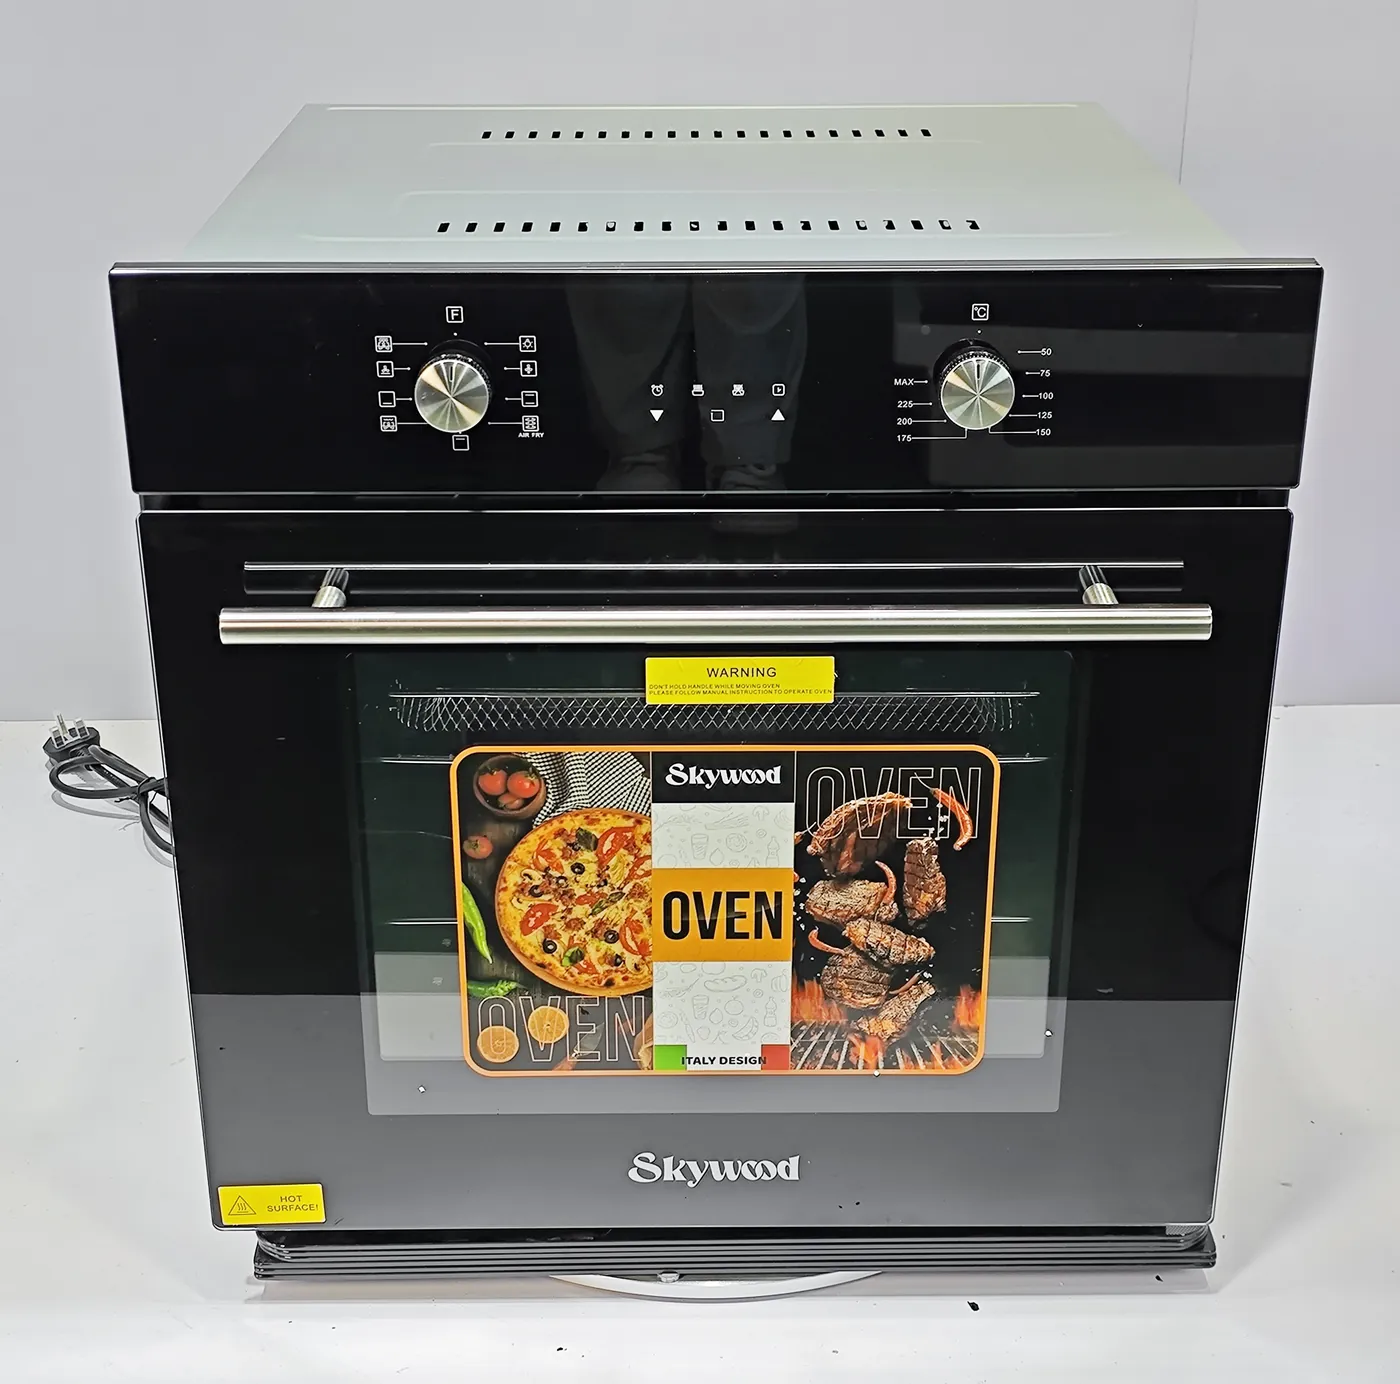
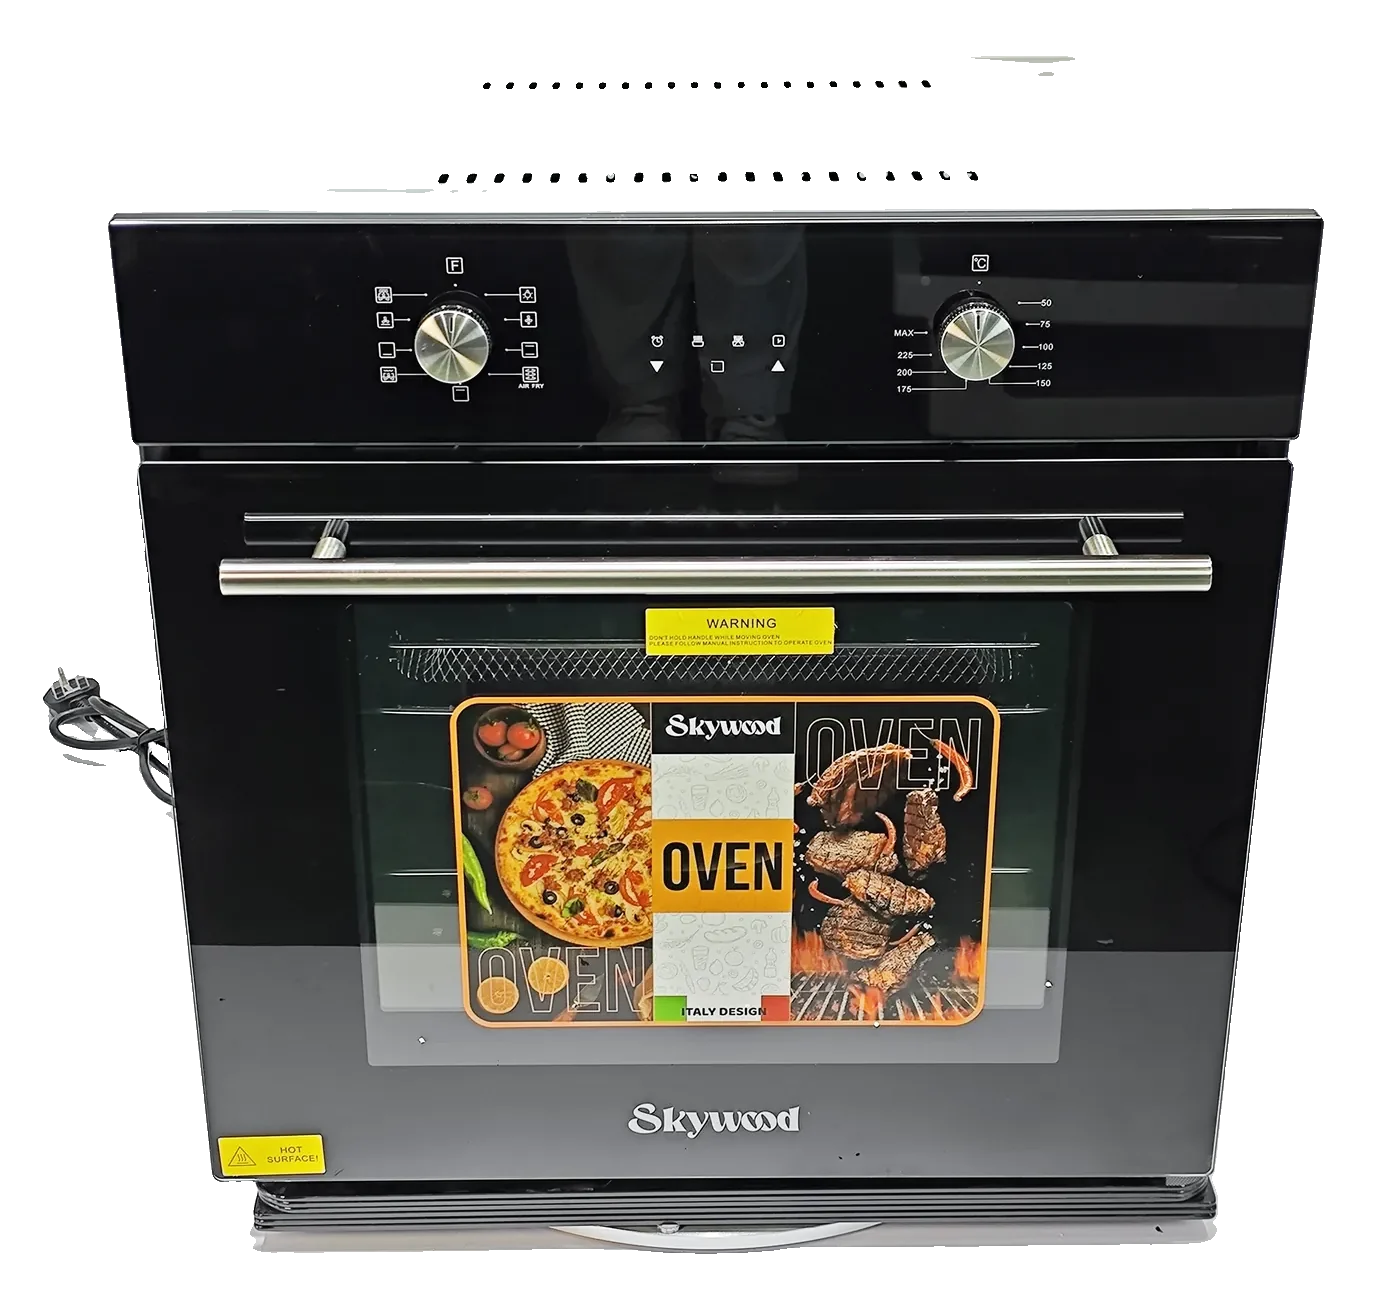
feat(store): leadership on the About page, awards on both brands, cleaner product cut-outs
- About > Leadership (name, position, bio, photo), editable in Admin > CMS, indexed as schema.org Person
- group awards shown on Skywood too; Chairperson Profile Beda Masawe listed for Mr UK
- deploy sync keeps unedited About blocks on the current defaults (staff edits are never overwritten)
- background removed from 7 main product photos (Skywood built-in ovens, Mr UK twin tub and yellow pump)

Claude-Session: https://claude.ai/code/session_012qpXoaTokW2qDuPUEDLrVa

diff --git a/apps/web/src/app/[brand]/about/page.tsx b/apps/web/src/app/[brand]/about/page.tsx
@@ -2,11 +2,12 @@ import type { Metadata } from 'next';
 import Link from 'next/link';
 import { JsonLd } from '@/components/seo/JsonLd';
 import { AwardArt } from '@/components/store/Awards';
+import { initials } from '@/lib/format';
 import type { BrandKey } from '@/lib/types';
 import { publicUrl } from '@/lib/site';
 import { getBrand, getCms, getSuppliers } from '@/server/catalog';
 import { getT } from '@/server/locale';
-import { brandTitle, breadcrumbLd, graph, organizationLd, pageMeta } from '@/server/seo';
+import { brandTitle, breadcrumbLd, graph, leadersLd, organizationLd, pageMeta } from '@/server/seo';
 
 export async function generateMetadata({ params }: { params: Promise<{ brand: string }> }): Promise<Metadata> {
   const { brand: key } = (await params) as { brand: BrandKey };
@@ -24,7 +25,7 @@ export default async function AboutPage({ params }: { params: Promise<{ brand: s
   const paragraphs = a.story.split(/\n\s*\n/).map((p) => p.trim()).filter(Boolean);
   return (
     <div className="wrap page-top about">
-      <JsonLd data={graph(organizationLd(brand, cms), { '@type': 'AboutPage', url: publicUrl(key, '/about'), name: `About ${brand.name}`, description: a.intro || undefined }, breadcrumbLd(brand, [{ name: t('aboutUs'), path: '/about' }]))} />
+      <JsonLd data={graph(organizationLd(brand, cms), { '@type': 'AboutPage', url: publicUrl(key, '/about'), name: `About ${brand.name}`, description: a.intro || undefined }, breadcrumbLd(brand, [{ name: t('aboutUs'), path: '/about' }]), ...leadersLd(brand, a.leaders))} />
       <header className="about-head">
         <p className="about-kicker">{t('aboutUs')}</p>
         <h1>{a.headline || brand.name}</h1>
@@ -61,6 +62,27 @@ export default async function AboutPage({ params }: { params: Promise<{ brand: s
               <li key={x.title}>
                 <h3>{x.title}</h3>
                 {x.text && <p>{x.text}</p>}
+              </li>
+            ))}
+          </ul>
+        </section>
+      )}
+
+      {a.leaders.length > 0 && (
+        <section className="about-sec" id="leadership" aria-labelledby="about-leadership">
+          <h2 id="about-leadership">{t('aboutLeadership')}</h2>
+          <ul className="about-leaders">
+            {a.leaders.map((l) => (
+              <li key={l.name} data-testid="leader">
+                <span className="about-leader-art" aria-hidden={l.img ? undefined : true}>
+                  {/* eslint-disable-next-line @next/next/no-img-element */}
+                  {l.img ? <img src={l.img} alt={`${l.name}, ${l.role}`} loading="lazy" decoding="async" /> : initials(l.name)}
+                </span>
+                <div>
+                  <h3>{l.name}</h3>
+                  {l.role && <p className="about-leader-role">{l.role}</p>}
+                  {l.bio && <p className="about-leader-bio">{l.bio}</p>}
+                </div>
               </li>
             ))}
           </ul>

diff --git a/handoff/design/brand-data.js b/handoff/design/brand-data.js
@@ -343,6 +343,7 @@
           { label: 'Head office', value: 'Kariakoo, Dar es Salaam' },
           { label: 'Branches', value: 'Arusha, Dodoma, Mwanza, Kilimanjaro' },
           { label: 'Reach', value: 'Eastern and Central Africa' },
+          { label: 'Quality', value: 'ISO 9001:2015 certified' },
         ],
         activities: [
           { title: 'Home appliances', text: 'Fridges, freezers, cookers, washing machines and small kitchen appliances for everyday family use.' },
@@ -354,8 +355,10 @@
         awards: [
           { title: 'Home Appliance Supplier of the Year', org: 'Africa Company of the Year Awards', year: '2026', recipient: 'MR UK Corporation', img: '/img/awards/africa-company-of-the-year-2026.webp' },
           { title: 'Outstanding Home Appliance Brand of the Year', org: 'East Africa Building and Construction (EABC) Awards', year: '2025', recipient: 'Mr UK Tanzania Limited', img: '/img/awards/eabc-awards-2025.webp' },
-          { title: 'CEO/MD of the Year', org: 'The Top 100 Awards', year: '2025', recipient: 'Beda Masawe, MR UK Corporation', img: '/img/awards/top-100-awards-2025.webp' },
+          { title: 'CEO/MD of the Year', org: 'The Top 100 Awards', year: '2025', recipient: 'Profile Beda Masawe, MR UK Corporation', img: '/img/awards/top-100-awards-2025.webp' },
         ],
+        // Photo and biography to come from the client (Admin › CMS › About › Leadership).
+        leaders: [{ name: 'Profile Beda Masawe', role: 'Chairperson, MR UK Corporation', bio: 'Named CEO/MD of the Year at The Top 100 Awards 2025.', img: '' }],
       },
       announcement: 'Take it home today, pay from your salary with Azania Bank Salary Advance',
       hero: [
@@ -381,7 +384,13 @@
         story: '',
         facts: [],
         activities: [],
-        awards: [],
+        // The client confirmed the group's awards are shown on both brands.
+        awards: [
+          { title: 'Home Appliance Supplier of the Year', org: 'Africa Company of the Year Awards', year: '2026', recipient: 'MR UK Corporation', img: '/img/awards/africa-company-of-the-year-2026.webp' },
+          { title: 'Outstanding Home Appliance Brand of the Year', org: 'East Africa Building and Construction (EABC) Awards', year: '2025', recipient: 'Mr UK Tanzania Limited', img: '/img/awards/eabc-awards-2025.webp' },
+          { title: 'CEO/MD of the Year', org: 'The Top 100 Awards', year: '2025', recipient: 'Profile Beda Masawe, MR UK Corporation', img: '/img/awards/top-100-awards-2025.webp' },
+        ],
+        leaders: [],
       },
       announcement: 'Beyond limits: pay monthly with Azania Bank Salary Advance',
       hero: [

diff --git a/apps/web/src/app/admin/(console)/cms/page.tsx b/apps/web/src/app/admin/(console)/cms/page.tsx
@@ -318,6 +318,36 @@ export default async function CmsPage({ searchParams }: { searchParams: Promise<
                 ))}
 
                 <h3 className="ad-h" style={{ fontSize: 13.5, marginTop: 18 }}>
+                  Leadership
+                </h3>
+                <p className="ad-sub">Chairperson, directors and managers shown on the About page. A photo is optional (square works best).</p>
+                <input type="hidden" name="ld_count" value={Math.min(about.leaders.length + 1, 12)} />
+                {[...about.leaders, { name: '', role: '', bio: '', img: '' }].slice(0, 12).map((x, i) => (
+                  <div key={`${aboutVersion}:${i}`} className="ad-form" style={{ marginTop: 10, paddingTop: 10, borderTop: '1px solid #F0F1F5' }}>
+                    <label className="ad-field">
+                      {i === about.leaders.length ? 'New leader name' : 'Name'}
+                      <input name={`ld_name_${i}`} defaultValue={x.name} maxLength={80} />
+                    </label>
+                    <label className="ad-field">
+                      Position
+                      <input name={`ld_role_${i}`} defaultValue={x.role} maxLength={80} />
+                    </label>
+                    <label className="ad-field full">
+                      Short biography
+                      <textarea name={`ld_bio_${i}`} defaultValue={x.bio} maxLength={500} rows={2} />
+                    </label>
+                    <div className="ad-field full">
+                      <ImagePick name={`ld_file_${i}`} current={x.img} text={x.img ? 'Replace photo' : 'Add photo'} alt={x.name} />
+                    </div>
+                    {i < about.leaders.length && (
+                      <label className="ad-check full" style={{ gridColumn: '1 / -1', fontSize: 12.5 }}>
+                        <input type="checkbox" name={`ld_remove_${i}`} /> Remove this person
+                      </label>
+                    )}
+                  </div>
+                ))}
+
+                <h3 className="ad-h" style={{ fontSize: 13.5, marginTop: 18 }}>
                   Awards and trophies
                 </h3>
                 <p className="ad-sub">Add a trophy photo on a plain or transparent background (JPG, PNG or WebP, up to 5 MB).</p>

diff --git a/packages/db/src/seed.ts b/packages/db/src/seed.ts
@@ -237,14 +237,28 @@ async function syncBrandDrafts(BT: ReturnType<typeof loadHandoff>, key: 'mruk' |
 }
 
 /** Default social profiles on a live database: only when the brand has none yet (staff edits always win). */
+/** JSON with sorted keys (Postgres jsonb does not keep key order). */
+function canonical(v: unknown): string {
+  const sort = (x: unknown): unknown => (Array.isArray(x) ? x.map(sort) : x && typeof x === 'object' ? Object.fromEntries(Object.keys(x).sort().map((k) => [k, sort((x as Record<string, unknown>)[k])])) : x);
+  return JSON.stringify(sort(v));
+}
+
 async function syncSocial(BT: ReturnType<typeof loadHandoff>) {
   // Blocks added after launch: created once with their defaults, never overwritten (staff edit them in Admin › CMS).
   for (const key of ['mruk', 'skywood'] as const) {
     for (const block of ['social', 'about'] as const) {
       const json = (BT.cms(key) as Record<string, unknown>)[block];
       if (!json) continue;
-      const row = await prisma.cmsBlock.findFirst({ where: { brandKey: key, key: block }, select: { id: true } });
-      if (row) continue;
+      const row = await prisma.cmsBlock.findFirst({ where: { brandKey: key, key: block }, select: { id: true, updatedBy: true, json: true } });
+      if (row) {
+        // A block staff never edited follows the defaults (e.g. awards now shown on both brands, leadership added).
+        if (row.updatedBy === 'system' && canonical(row.json) !== canonical(json)) {
+          await prisma.cmsBlock.update({ where: { id: row.id }, data: { json: json as object } });
+          await prisma.auditLog.create({ data: { actor: 'system:deploy', action: `cms.${block}.default`, entity: 'CmsBlock', entityId: `${key}:${block}` } });
+          console.log(`  ${key} ${block} block updated to the current defaults.`);
+        }
+        continue;
+      }
       await prisma.cmsBlock.create({ data: { brandKey: key, key: block, json: json as object } });
       await prisma.auditLog.create({ data: { actor: 'system:deploy', action: `cms.${block}.default`, entity: 'CmsBlock', entityId: `${key}:${block}` } });
       console.log(`  ${key} ${block} block added.`);

diff --git a/apps/web/src/app/actions/admin.ts b/apps/web/src/app/actions/admin.ts
@@ -583,7 +583,21 @@ export async function saveAboutAction(brand: string, fd: FormData): Promise<Acti
       if (hasFile) img = await storePublicImage(file, `cms/${b}-award-${i + 1}`);
       awards.push({ title, org, year: textZ(20).parse(f[`aw_year_${i}`] ?? ''), recipient: textZ(120).parse(f[`aw_recipient_${i}`] ?? ''), img });
     }
-    const about = { headline: textZ(120).parse(f.headline ?? ''), intro: textZ(400).parse(f.intro ?? ''), story: z.string().trim().max(4000, 'Keep the story under 4,000 characters').parse(f.story ?? ''), facts, activities, awards };
+    const leaders: { name: string; role: string; bio: string; img: string }[] = [];
+    const currentLeaders = aboutView(await getCmsJson<unknown>(b, 'about', null)).leaders;
+    for (let i = 0; i < count('ld_count', 13); i++) {
+      if (checkbox(f[`ld_remove_${i}`])) continue;
+      const name = textZ(80).parse(f[`ld_name_${i}`] ?? '');
+      const role = textZ(80).parse(f[`ld_role_${i}`] ?? '');
+      const file = fd.get(`ld_file_${i}`);
+      const hasFile = file instanceof File && file.size > 0;
+      if (!name && !role && !hasFile) continue;
+      if (!name) throw new Error(`Leader ${i + 1}: enter the name`);
+      let img = currentLeaders[i]?.img ?? '';
+      if (hasFile) img = await storePublicImage(file, `cms/${b}-leader-${i + 1}`);
+      leaders.push({ name, role, bio: textZ(500).parse(f[`ld_bio_${i}`] ?? ''), img });
+    }
+    const about = { headline: textZ(120).parse(f.headline ?? ''), intro: textZ(400).parse(f.intro ?? ''), story: z.string().trim().max(4000, 'Keep the story under 4,000 characters').parse(f.story ?? ''), facts, activities, awards, leaders };
     await setCms(ctx, b, 'about', about);
     return { message: 'About page published' };
   });

diff --git a/apps/web/src/styles/globals.css b/apps/web/src/styles/globals.css
@@ -1209,6 +1209,13 @@ textarea.input { resize: vertical; }
 .about-awards h3 { margin: 6px 0 0; font-size: 16px; font-weight: 500; line-height: 1.35; color: var(--ink); }
 .about-award-org { margin: 6px 0 0; font-size: 13.5px; line-height: 1.5; color: var(--muted2); }
 .about-award-to { margin: 10px 0 0; padding-top: 10px; border-top: 1px solid var(--border); font-size: 13px; color: var(--text); }
+.about-leaders { list-style: none; margin: 0; padding: 0; display: grid; grid-template-columns: repeat(auto-fill, minmax(300px, 1fr)); gap: 14px; }
+.about-leaders li { display: flex; gap: 16px; align-items: flex-start; border: 1px solid var(--border); border-radius: var(--rs); padding: 20px; background: #fff; }
+.about-leader-art { flex: none; width: 72px; height: 72px; border-radius: 50%; overflow: hidden; display: flex; align-items: center; justify-content: center; background: var(--soft); color: var(--ink); font-size: 20px; font-weight: 500; }
+.about-leader-art img { width: 100%; height: 100%; object-fit: cover; }
+.about-leaders h3 { margin: 0; font-size: 16px; font-weight: 500; color: var(--ink); }
+.about-leader-role { margin: 4px 0 0; font-size: 13.5px; color: var(--muted2); }
+.about-leader-bio { margin: 10px 0 0; font-size: 14px; line-height: 1.6; color: var(--text); }
 .about-cta { display: flex; flex-wrap: wrap; gap: 10px; margin-top: 56px; }
 .about-btn { display: inline-flex; align-items: center; min-height: 46px; padding: 0 22px; border-radius: 999px; border: 1px solid var(--line); font-size: 14.5px; font-weight: 500; color: var(--ink); background: #fff; }
 .about-btn.solid { background: var(--p); border-color: var(--p); color: #fff; }

diff --git a/e2e/about.spec.ts b/e2e/about.spec.ts
@@ -25,12 +25,21 @@ test('Mr UK About page lists the story, activities and awards; the home page sho
   await expect(page.locator('footer').getByRole('link', { name: 'About us' })).toHaveAttribute('href', '/mruk/about');
 });
 
-test('Skywood has an About page and no awards strip until awards are added', async ({ page }) => {
+test('Skywood has an About page and shows the group awards', async ({ page }) => {
   await page.goto('/skywood/about');
   await expect(page.getByRole('heading', { level: 1 })).toBeVisible();
-  await expect(page.getByTestId('award')).toHaveCount(0);
+  await expect(page.getByTestId('award')).toHaveCount(3);
   await page.goto('/skywood');
-  await expect(page.getByTestId('awards-strip')).toHaveCount(0);
+  await expect(page.getByTestId('awards-strip')).toBeVisible();
+});
+
+test('leadership is listed on the About page and indexed as a Person', async ({ page }) => {
+  await page.goto('/mruk/about');
+  await expect(page.getByTestId('leader').first()).toContainText('Profile Beda Masawe');
+  await expect(page.getByTestId('leader').first()).toContainText('Chairperson');
+  const ld = (await page.locator('script[type="application/ld+json"]').allTextContents()).join(' ');
+  expect(ld).toContain('"@type":"Person"');
+  expect(ld).toContain('Profile Beda Masawe');
 });
 
 test('staff edit the About page in the CMS and the store shows it', async ({ page, browser, baseURL }) => {

diff --git a/apps/web/src/server/catalog.ts b/apps/web/src/server/catalog.ts
@@ -260,6 +260,7 @@ export function aboutView(v: unknown): AboutView {
     facts: rows(o.facts, 8).map((f) => ({ label: str(f.label, 40), value: str(f.value, 60) })).filter((f) => f.label && f.value),
     activities: rows(o.activities, 12).map((a) => ({ title: str(a.title, 80), text: str(a.text, 400) })).filter((a) => a.title),
     awards: rows(o.awards, 12).map((a) => ({ title: str(a.title, 120), org: str(a.org, 120), year: str(a.year, 20), recipient: str(a.recipient, 120), img: img(a.img) })).filter((a) => a.title),
+    leaders: rows(o.leaders, 12).map((l) => ({ name: str(l.name, 80), role: str(l.role, 80), bio: str(l.bio, 500), img: img(l.img) })).filter((l) => l.name),
   };
 }
 

diff --git a/apps/web/src/server/seo.ts b/apps/web/src/server/seo.ts
@@ -123,6 +123,18 @@ export function organizationLd(brand: BrandView, cms: CmsView): Json {
   };
 }
 
+/** Leadership as schema.org Person entries tied to the organisation, so search engines can index who leads the company. */
+export function leadersLd(brand: BrandView, leaders: CmsView['about']['leaders']): Json[] {
+  return leaders.map((l) => ({
+    '@type': 'Person',
+    name: l.name,
+    jobTitle: l.role || undefined,
+    description: l.bio || undefined,
+    image: l.img ? absUrl(l.img) : undefined,
+    worksFor: { '@id': orgId(brand.key) },
+  }));
+}
+
 export function websiteLd(brand: BrandView): Json {
   return {
     '@type': 'WebSite',

diff --git a/apps/web/src/lib/i18n.ts b/apps/web/src/lib/i18n.ts
@@ -9,6 +9,7 @@ const en = {
   aboutStory: 'Our story',
   aboutActivities: 'What we do',
   aboutAwards: 'Awards and recognition',
+  aboutLeadership: 'Leadership',
   awardsStrip: 'Recognised for our work',
   awardsSeeAll: 'See our awards',
   signIn: 'Sign in',
@@ -525,6 +526,7 @@ const sw: Record<MessageKey, string> = {
   aboutStory: 'Historia yetu',
   aboutActivities: 'Tunachofanya',
   aboutAwards: 'Tuzo na heshima',
+  aboutLeadership: 'Uongozi',
   awardsStrip: 'Tumetambuliwa kwa kazi yetu',
   awardsSeeAll: 'Tazama tuzo zetu',
   signIn: 'Ingia',

diff --git a/apps/web/src/lib/types.ts b/apps/web/src/lib/types.ts
@@ -120,6 +120,8 @@ export interface AboutView {
   facts: { label: string; value: string }[];
   activities: { title: string; text: string }[];
   awards: AwardView[];
+  /** Leadership shown on the About page (photo optional). */
+  leaders: { name: string; role: string; bio: string; img: string }[];
 }
 
 export const SOCIAL_KEYS = ['facebook', 'instagram', 'tiktok', 'youtube', 'x', 'linkedin'] as const;
